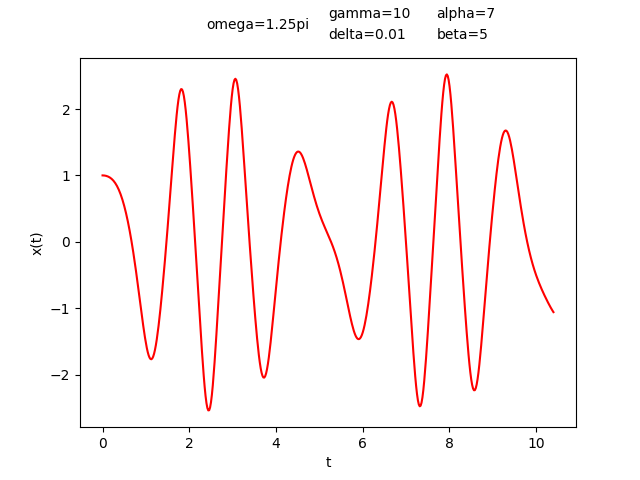
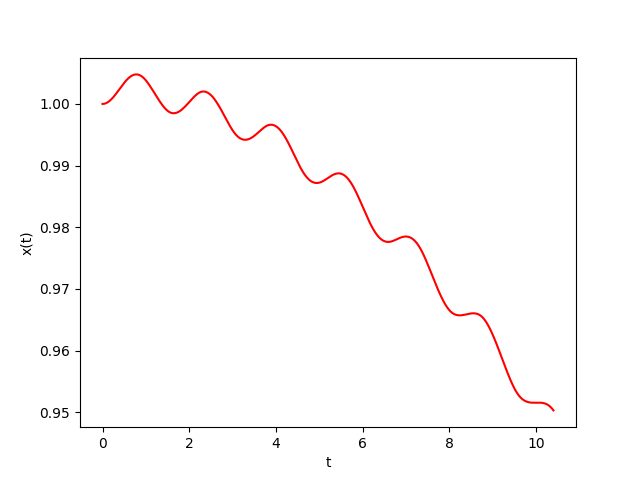
study_update

diff --git a/src/numerical_methods/Runge_kut_scipy.py b/src/numerical_methods/Runge_kut_scipy.py
@@ -4,10 +4,10 @@ from scipy.integrate import odeint, solve_ivp
 import matplotlib.pyplot as plt
 import numpy as np
 
-gamma = 10
-delta = 0.01
-alpha = 7
-beta = 5
+gamma = 0.04
+delta = 0.02
+alpha = 0.0001
+beta = 0.001
 l = 1.25
 omega = np.pi*l
 
